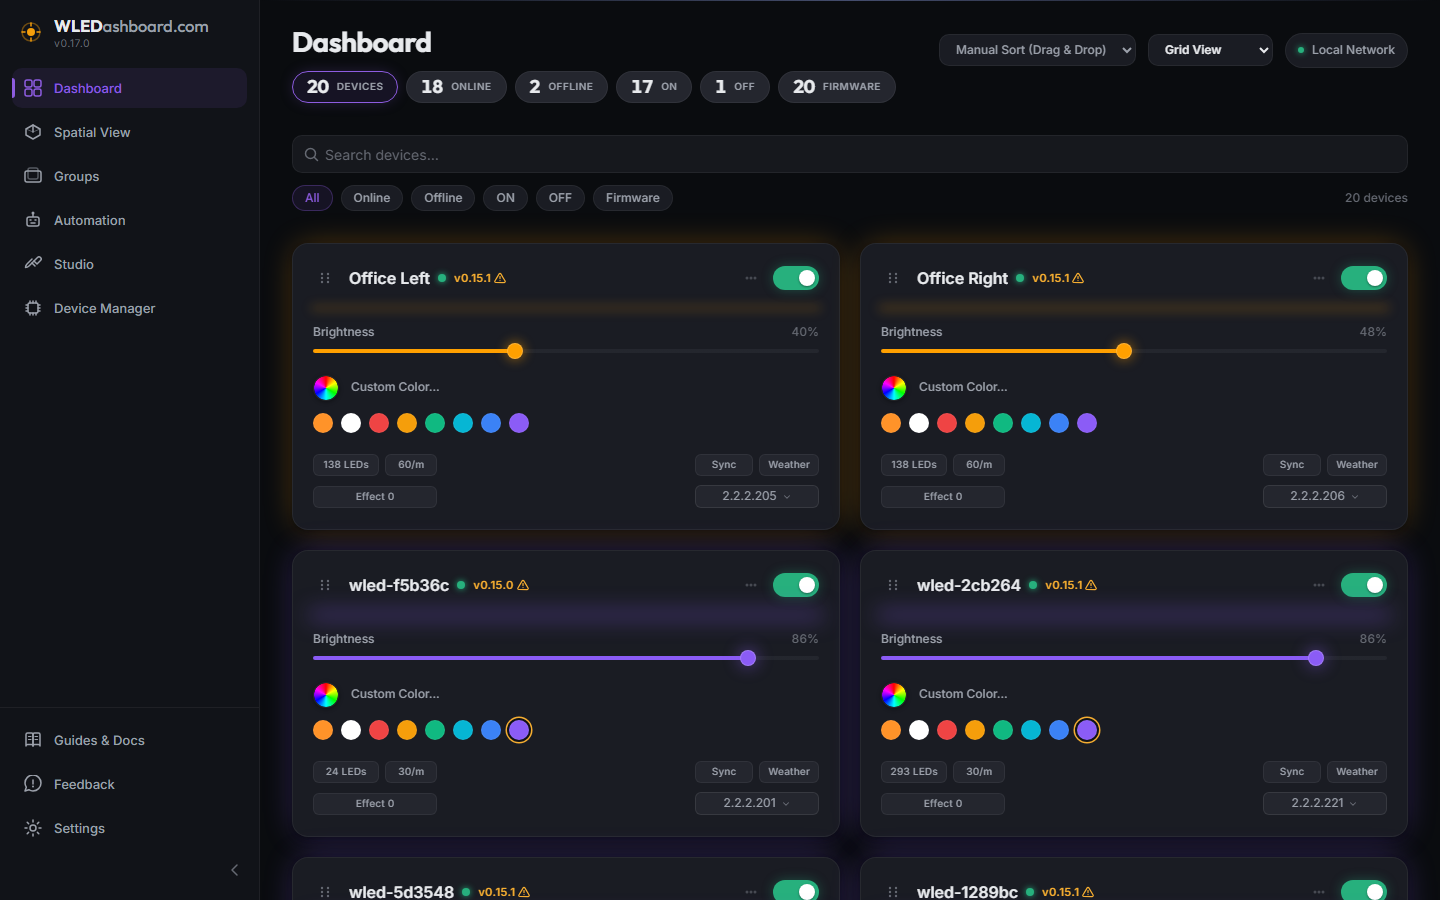
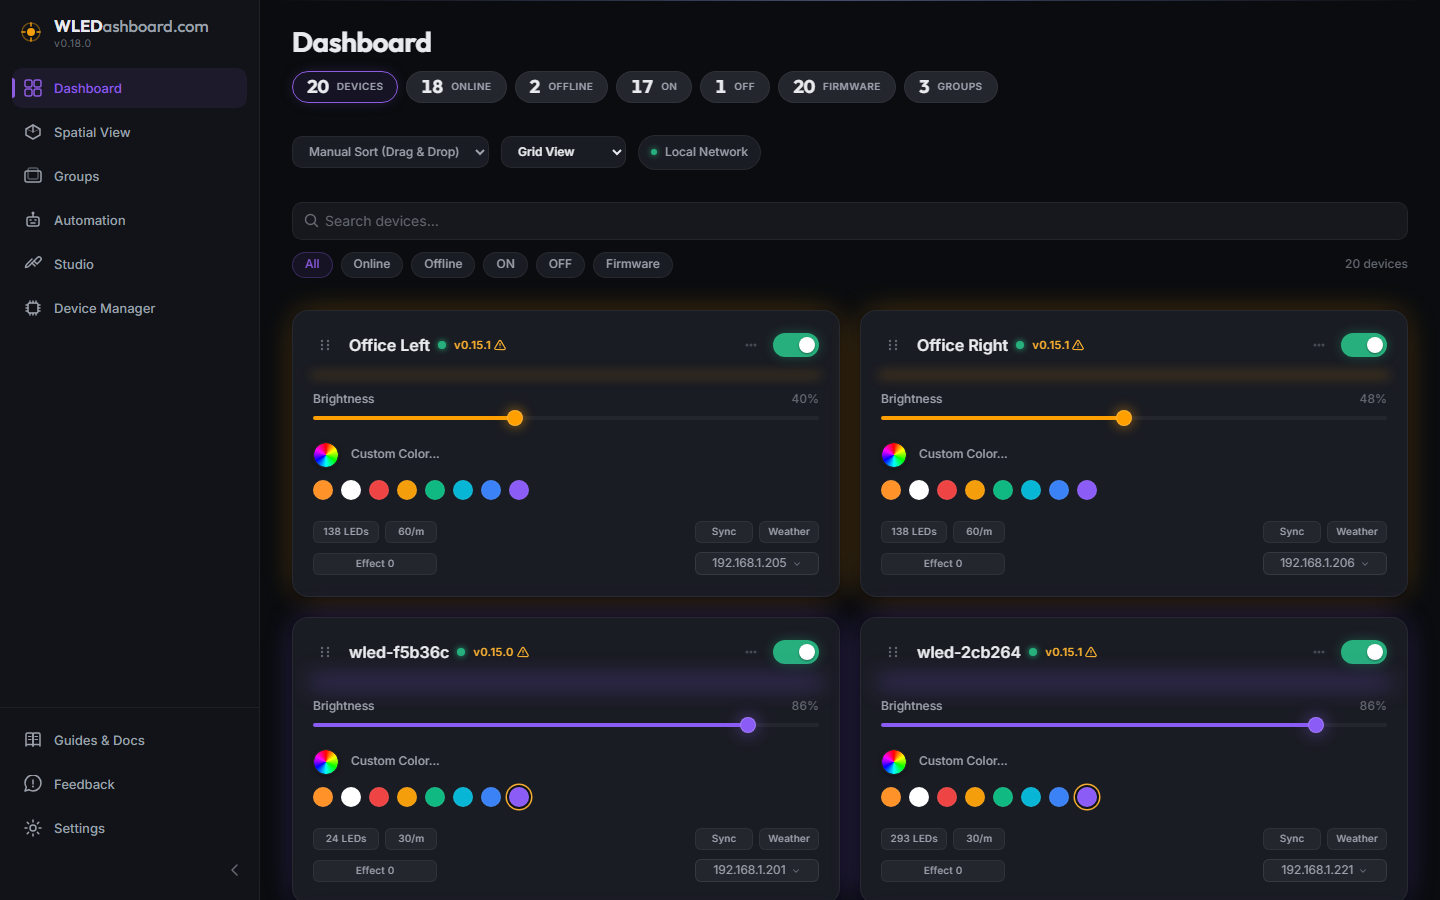
docs: remove quick start, purge orphaned images, and synchronize showcase screenshots with RFC 1918 sanitized IPs for v0.18.0

diff --git a/README.md b/README.md
@@ -8,43 +8,51 @@ A high performance, local first control surface for WLED devices. Control 1 to 1
 
 ### Dashboard
 
-Control all your WLED devices with real time power toggles, dynamic brightness sliders with responsive color glow, compact inline color pickers, and live LED segment previews.
+Control all your WLED devices with real time power toggles, dynamic brightness sliders with responsive color glow, anti-aliased conic-gradient color wheel pickers, four corner symmetrical hardware and action chicklets, and live telemetry headers.
 
-![WLEDashboard Main Dashboard](project_details/changelog/v0.12.0/screenshots/01-dashboard-grid.png)
+![WLEDashboard Main Dashboard](project_details/changelog/v0.18.0/screenshots/01-dashboard-grid.png)
 
 ### Group Management
 
 Organize devices into physical zones, synchronized scenes, and custom lighting clusters. Control group power, group brightness, and group colors simultaneously with automatic device command distribution.
 
-![WLEDashboard Groups View](project_details/changelog/v0.3.0/screenshots/01-groups-view.png)
+![WLEDashboard Groups View](project_details/changelog/v0.18.0/screenshots/02-groups-view.png)
 
 ### Group Editor Modal
 
 Easily build and customize lighting groups with custom color palettes, group type classifications (Zone, Scene, Sync, Custom), device member selection, and nested child group clustering.
 
-![Group Editor Modal](project_details/changelog/v0.3.0/screenshots/02-group-modal.png)
+![Group Editor Modal](project_details/changelog/v0.18.0/screenshots/03-group-modal.png)
 
 ### Automation & Schedules
 
 Automate lighting based on fixed times or astronomical sunrise/sunset triggers (`suncalc`). Build multi-step routine timelines with custom delay intervals between step actions.
 
+![Automation & Schedules](project_details/changelog/v0.18.0/screenshots/04-automation-view.png)
+
 ### 3D Spatial Viewport
 
-Experience your lighting in 3D space with Three.js / React Three Fiber. View procedural room geometries, wireframe wall bounds, and real-time emissive LED light strips that pulse and glow matching actual device color and brightness. Includes a stunning holographic Earth intro sequence.
+Experience your lighting in 3D space with Three.js and React Three Fiber. View procedural room geometries, wireframe wall bounds, and real-time emissive LED light strips that pulse and glow matching actual device color and brightness. Includes a stunning holographic Earth orbital sequence.
 
-![3D Spatial Viewport](project_details/changelog/v0.13.0/screenshots/01-holographic-intro-altimeter.png)
+![3D Spatial Viewport](project_details/changelog/v0.18.0/screenshots/05-spatial-view.png)
 
 ### Effect Studio & Timeline Animator
 
 Browse WLED built-in effect catalogs, build custom multi-track keyframe animation timelines, design multi-stop color gradients, and simulate light patterns on a live 60-pixel LED strip canvas.
 
-![Effect Studio](project_details/changelog/v0.6.0/screenshots/01-studio-preset-browser.png)
+![Effect Studio](project_details/changelog/v0.18.0/screenshots/06-studio-view.png)
 
-### Spotify Media Integration
+### How-To & Architecture Documentation Hub
 
-Fully integrated Spotify Web API player. See real-time album art, track progress, and playback controls natively in your dashboard. Synchronize dynamic WLED lighting effects to your currently playing audio.
+In-depth documentation hub integrated directly into the application with interactive tables, mobile installation instructions, group synchronization mechanics, and Home Assistant setup guides.
 
-![Spotify Media Player](project_details/changelog/v0.12.0/screenshots/04-dashboard-media.png)
+![Documentation Hub](project_details/changelog/v0.18.0/screenshots/07-guides-docs.png)
+
+### Mobile Progressive Web App (PWA)
+
+Install WLEDashboard directly to your mobile home screen on iOS and Android for a seamless full-screen native experience without browser navigation bars or address controls.
+
+![Mobile Progressive Web App](project_details/changelog/v0.18.0/screenshots/08-mobile-dashboard.png)
 
 ---
 
@@ -88,43 +96,9 @@ Fully integrated Spotify Web API player. See real-time album art, track progress
 
 ---
 
-## Quick Start
+## Deployment (Docker Compose)
 
-### Prerequisites
-
-* Node.js 22 or higher
-* npm 10 or higher
-
-### Installation
-
-```bash
-# Clone repository
-git clone https://github.com/upioneer/WLEDashboard.git
-cd WLEDashboard
-
-# Install dependencies across workspaces
-npm install
-```
-
-### Running in Development Mode
-
-Run the API and web app in two terminal windows:
-
-```bash
-# Terminal 1: API Server (http://localhost:3001)
-npm run dev:api
-
-# Terminal 2: Web App (http://localhost:5173)
-npm run dev:web
-```
-
-Open `http://localhost:5173` in your browser.
-
----
-
-## Docker Deployment
-
-WLEDashboard provides pre-built container images published to the GitHub Container Registry (`ghcr.io/upioneer/wledashboard:latest`).
+WLEDashboard provides pre-built container images published to the GitHub Container Registry (`ghcr.io/upioneer/wledashboard:latest`). To ensure a consistent, zero-configuration environment across all operating systems, deployment via Docker Compose is the recommended installation method.
 
 ### Using Docker Compose (Recommended)
 
@@ -185,12 +159,12 @@ Access the application in your browser at `http://localhost:3001`.
 ---
 
 ## Verification & Testing
-
-WLEDashboard includes automated Playwright end to end test suites:
+ 
+WLEDashboard includes automated unit and integration test suites:
 
 ```bash
-# Execute functional test suite
-node .skills/playwright/run.js project_details/playbooks/test-v0.3.0.js
+# Execute automated test suite across all workspaces
+npm test
 ```
 
 ---

diff --git a/project_details/changelog/v0.18.0/readme.md b/project_details/changelog/v0.18.0/readme.md
@@ -17,6 +17,7 @@ Version 0.18.0 introduces Progressive Web App (PWA) standalone mobile installati
 * **Documentation Guide:** Added the "Mobile App Installation: Add to Home Screen (iOS & Android)" guide under a new "Mobile & PWA" category in Guides & Docs.
 
 ![Mobile iOS Installation Modal](screenshots/mobile_ios_install_modal.png)
+![Mobile Android Installation Modal](screenshots/mobile_android_install_modal.png)
 ![Mobile App Documentation Guide](screenshots/desktop_guides_pwa_guide.png)
 
 ### 2. Device Card Polish & Conic-Gradient Color Wheel
